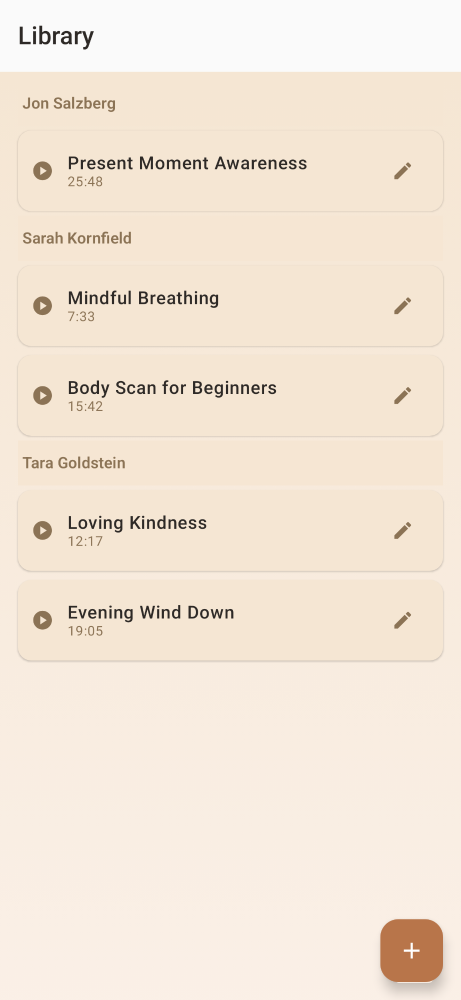
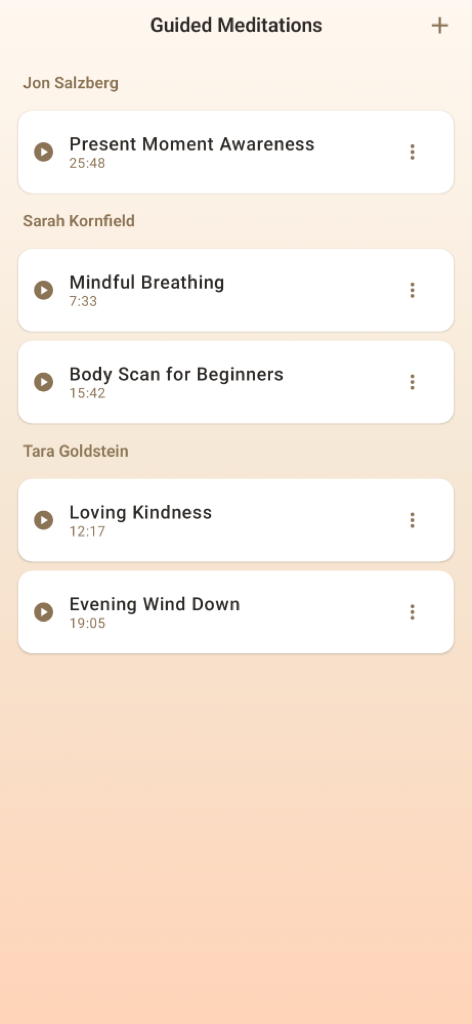
refactor(android): update screenshot tests to use StillMomentTopAppBar
Align library list screenshots with actual GuidedMeditationsListScreen by
using StillMomentTopAppBar (iOS-style centered title) instead of Scaffold.
Move FAB to top app bar action, remove unused background/color imports.

🤖 Generated with [Claude Code](https://claude.com/claude-code)

diff --git a/android/app/src/test/kotlin/com/stillmoment/screenshots/PlayStoreScreenshotTests.kt b/android/app/src/test/kotlin/com/stillmoment/screenshots/PlayStoreScreenshotTests.kt
@@ -1,6 +1,5 @@
 package com.stillmoment.screenshots
 
-import androidx.compose.foundation.background
 import androidx.compose.foundation.layout.Box
 import androidx.compose.foundation.layout.PaddingValues
 import androidx.compose.foundation.layout.fillMaxSize
@@ -10,17 +9,12 @@ import androidx.compose.foundation.lazy.LazyColumn
 import androidx.compose.foundation.lazy.items
 import androidx.compose.material.icons.Icons
 import androidx.compose.material.icons.filled.Add
-import androidx.compose.material3.ExperimentalMaterial3Api
-import androidx.compose.material3.FloatingActionButton
 import androidx.compose.material3.Icon
+import androidx.compose.material3.IconButton
 import androidx.compose.material3.MaterialTheme
-import androidx.compose.material3.Scaffold
 import androidx.compose.material3.Text
-import androidx.compose.material3.TopAppBar
-import androidx.compose.material3.TopAppBarDefaults
 import androidx.compose.runtime.Composable
 import androidx.compose.ui.Modifier
-import androidx.compose.ui.graphics.Color
 import androidx.compose.ui.semantics.heading
 import androidx.compose.ui.semantics.semantics
 import androidx.compose.ui.text.font.FontWeight
@@ -31,11 +25,12 @@ import com.stillmoment.domain.models.GuidedMeditationGroup
 import com.stillmoment.domain.models.MeditationSettings
 import com.stillmoment.domain.models.TimerDisplayState
 import com.stillmoment.domain.models.TimerState
+import com.stillmoment.presentation.ui.components.StillMomentTopAppBar
+import com.stillmoment.presentation.ui.components.TopAppBarHeight
 import com.stillmoment.presentation.ui.meditations.GuidedMeditationPlayerScreenContent
 import com.stillmoment.presentation.ui.meditations.MeditationListItem
 import com.stillmoment.presentation.ui.theme.StillMomentTheme
 import com.stillmoment.presentation.ui.theme.WarmGradientBackground
-import com.stillmoment.presentation.ui.theme.WarmSand
 import com.stillmoment.presentation.ui.timer.TimerScreenContent
 import com.stillmoment.presentation.viewmodel.PlayerUiState
 import com.stillmoment.presentation.viewmodel.TimerUiState
@@ -60,6 +55,12 @@ class PlayStoreScreenshotTests {
     companion object {
         private val DEVICE_EN = DeviceConfig.PIXEL_6_PRO.copy(locale = "en")
         private val DEVICE_DE = DeviceConfig.PIXEL_6_PRO.copy(locale = "de")
+
+        // Localized strings for screenshots (mirrors strings.xml)
+        private val GUIDED_MEDITATIONS_TITLE = mapOf(
+            "en" to "Guided Meditations",
+            "de" to "Geführte Meditationen"
+        )
     }
 
     @get:Rule
@@ -161,21 +162,21 @@ class PlayStoreScreenshotTests {
     @Test
     fun libraryList_english() {
         paparazzi.unsafeUpdateConfig(deviceConfig = DEVICE_EN)
-        captureLibraryList("", "Library")
+        captureLibraryList("", "en")
     }
 
     @Test
     fun libraryList_german() {
         paparazzi.unsafeUpdateConfig(deviceConfig = DEVICE_DE)
-        captureLibraryList("-de", "Bibliothek")
+        captureLibraryList("-de", "de")
     }
 
-    private fun captureLibraryList(suffix: String, libraryTitle: String) {
+    private fun captureLibraryList(suffix: String, locale: String) {
         paparazzi.snapshot(name = "library-list$suffix") {
             StillMomentTheme {
                 LibraryScreenshotContent(
                     groups = TestFixtures.meditationGroups,
-                    libraryTitle = libraryTitle
+                    libraryTitle = GUIDED_MEDITATIONS_TITLE[locale]!!
                 )
             }
         }
@@ -223,88 +224,67 @@ class PlayStoreScreenshotTests {
 }
 
 /**
- * Screenshot-specific library content without Activity dependencies.
- * Uses hardcoded strings instead of stringResource to avoid Activity context requirement.
+ * Screenshot-specific library content matching GuidedMeditationsListScreen layout.
+ * Uses StillMomentTopAppBar for iOS-style centered title with gradient background.
  */
-@OptIn(ExperimentalMaterial3Api::class)
 @Composable
 private fun LibraryScreenshotContent(groups: ImmutableList<GuidedMeditationGroup>, libraryTitle: String) {
-    Scaffold(
-        topBar = {
-            TopAppBar(
-                title = {
-                    Text(
-                        text = libraryTitle,
-                        style =
-                        MaterialTheme.typography.titleLarge.copy(
-                            fontWeight = FontWeight.Medium
-                        )
+    Box(modifier = Modifier.fillMaxSize()) {
+        // Gradient behind everything
+        WarmGradientBackground()
+
+        // Custom TopAppBar (compact, iOS-style)
+        StillMomentTopAppBar(
+            title = libraryTitle,
+            actions = {
+                IconButton(onClick = {}) {
+                    Icon(
+                        imageVector = Icons.Default.Add,
+                        contentDescription = null,
+                        tint = MaterialTheme.colorScheme.onSurfaceVariant
                     )
-                },
-                colors =
-                TopAppBarDefaults.topAppBarColors(
-                    containerColor = Color.Transparent
-                )
-            )
-        },
-        floatingActionButton = {
-            FloatingActionButton(
-                onClick = {},
-                containerColor = MaterialTheme.colorScheme.primary,
-                contentColor = MaterialTheme.colorScheme.onPrimary
-            ) {
-                Icon(
-                    imageVector = Icons.Default.Add,
-                    contentDescription = null
-                )
+                }
             }
-        },
-        containerColor = Color.Transparent
-    ) { padding ->
-        Box(
+        )
+
+        // Content below the app bar
+        LazyColumn(
             modifier =
             Modifier
                 .fillMaxSize()
-                .padding(padding)
+                .padding(top = TopAppBarHeight),
+            contentPadding = PaddingValues(horizontal = 16.dp, vertical = 8.dp)
         ) {
-            WarmGradientBackground()
-
-            LazyColumn(
-                modifier = Modifier.fillMaxSize(),
-                contentPadding = PaddingValues(horizontal = 16.dp, vertical = 8.dp)
-            ) {
-                groups.forEach { group ->
-                    item(key = "header_${group.teacher}") {
-                        Box(
-                            modifier =
-                            Modifier
-                                .fillMaxWidth()
-                                .background(WarmSand.copy(alpha = 0.95f))
-                                .padding(vertical = 12.dp, horizontal = 4.dp)
-                                .semantics { heading() }
-                        ) {
-                            Text(
-                                text = group.teacher,
-                                style =
-                                MaterialTheme.typography.titleSmall.copy(
-                                    fontWeight = FontWeight.SemiBold
-                                ),
-                                color = MaterialTheme.colorScheme.onSurfaceVariant
-                            )
-                        }
-                    }
-
-                    items(
-                        items = group.meditations,
-                        key = { it.id }
-                    ) { meditation ->
-                        MeditationListItem(
-                            meditation = meditation,
-                            onClick = {},
-                            onEditClick = {},
-                            onDeleteClick = {}
+            groups.forEach { group ->
+                item(key = "header_${group.teacher}") {
+                    Box(
+                        modifier =
+                        Modifier
+                            .fillMaxWidth()
+                            .padding(vertical = 12.dp, horizontal = 4.dp)
+                            .semantics { heading() }
+                    ) {
+                        Text(
+                            text = group.teacher,
+                            style =
+                            MaterialTheme.typography.titleSmall.copy(
+                                fontWeight = FontWeight.SemiBold
+                            ),
+                            color = MaterialTheme.colorScheme.onSurfaceVariant
                         )
                     }
+                }
+
+                items(
+                    items = group.meditations,
+                    key = { it.id }
+                ) { meditation ->
+                    MeditationListItem(
+                        meditation = meditation,
+                        onClick = {},
+                        onEditClick = {},
+                        onDeleteClick = {}
+                    )
                 }
             }
         }
